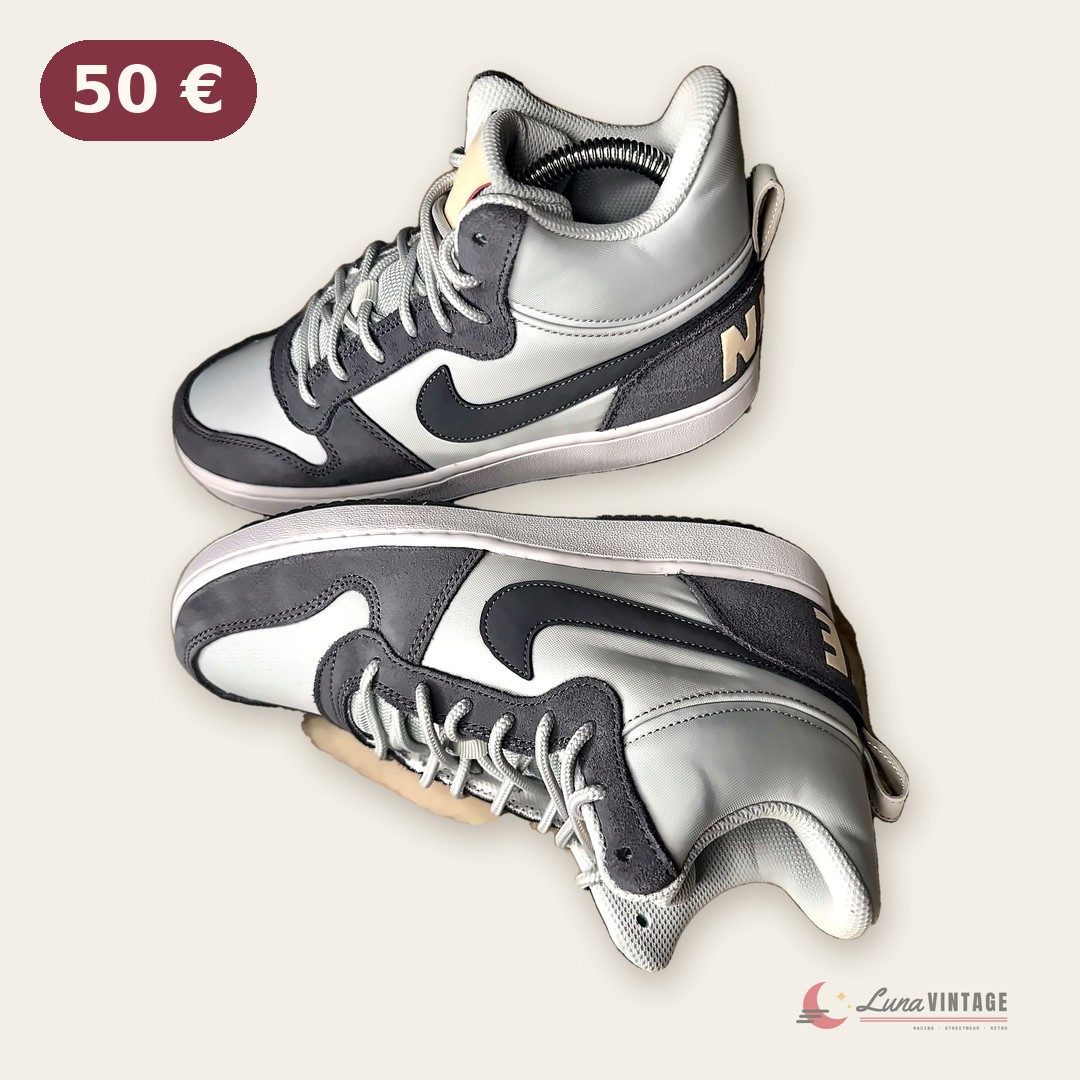
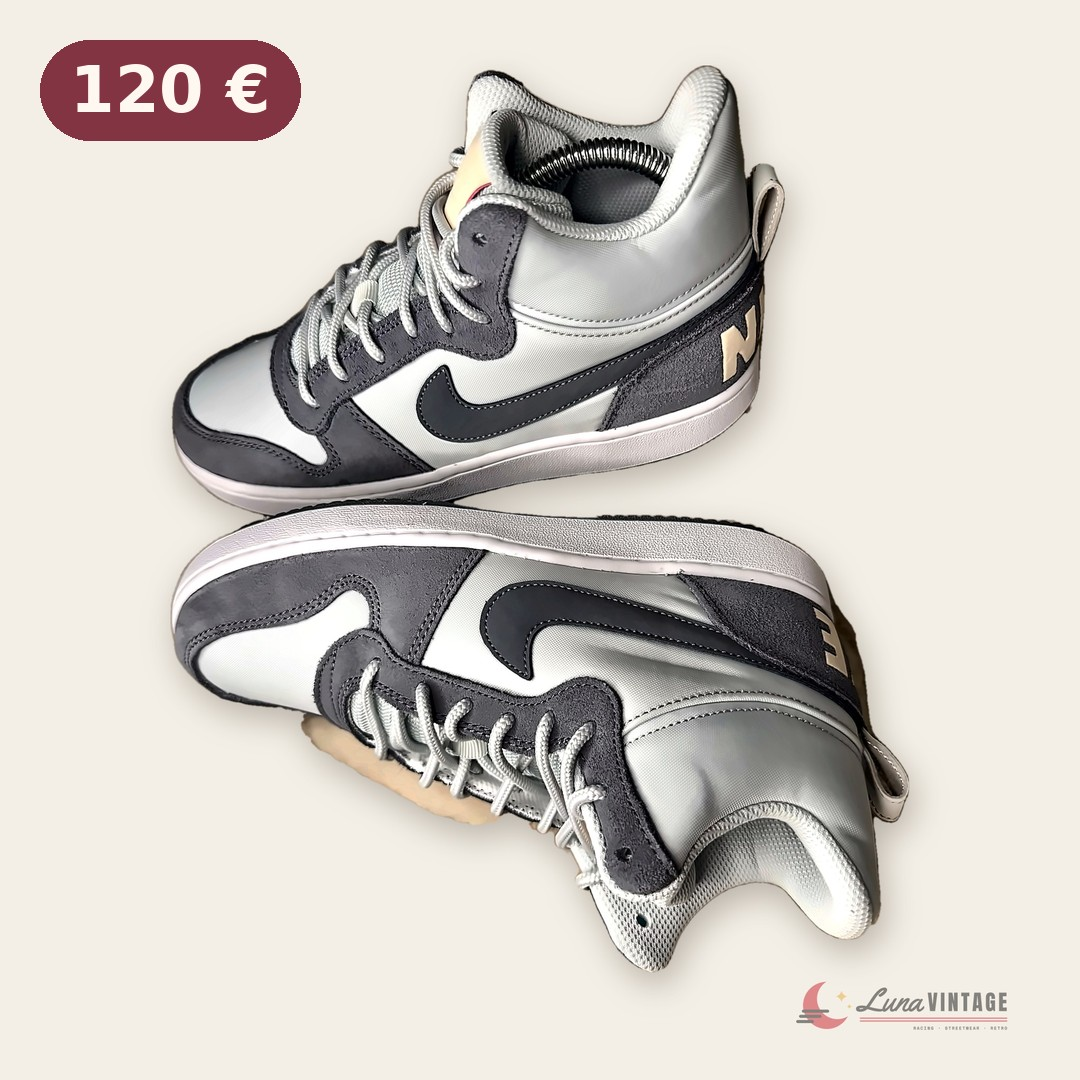
Precio Nike Court 120
Claude-Session: https://claude.ai/code/session_01U4Co1rGfzCPQ16g2SSdqwX

Changed region(s): [[0.0611, 0.0306, 0.275, 0.1528]]

diff --git a/brand/drop2/galeria.html b/brand/drop2/galeria.html
@@ -7,7 +7,7 @@ figcaption{padding:12px 14px;display:flex;justify-content:space-between;gap:10px
 <figure><img src="fb/01_23_camiseta_nike_united_90_fb.jpg" alt=""><figcaption><b>1.</b> Camiseta Nike United "90" manga larga animal print · Talla M<span>55 €</span></figcaption></figure>
 <figure><img src="fb/02_24_sudadera_essentials_gris_fb.jpg" alt=""><figcaption><b>2.</b> Sudadera con capucha Fear of God Essentials gris · Talla XS<span>65 €</span></figcaption></figure>
 <figure><img src="fb/03_25_camiseta_essentials_blanca_fb.jpg" alt=""><figcaption><b>3.</b> Camiseta Fear of God Essentials blanca · Talla XS<span>35 €</span></figcaption></figure>
-<figure><img src="fb/04_26_zapatillas_nike_court_mid_fb.jpg" alt=""><figcaption><b>4.</b> Zapatillas Nike Court Borough Mid gris y blanco<span>50 €</span></figcaption></figure>
+<figure><img src="fb/04_26_zapatillas_nike_court_mid_fb.jpg" alt=""><figcaption><b>4.</b> Zapatillas Nike Court Borough Mid gris y blanco<span>120 €</span></figcaption></figure>
 <figure><img src="fb/05_27_botas_calcetin_negras_fb.jpg" alt=""><figcaption><b>5.</b> Botas calcetín negras con hebilla y suela track<span>35 €</span></figcaption></figure>
 <figure><img src="fb/06_28_zapatillas_lancetti_negras_fb.jpg" alt=""><figcaption><b>6.</b> Zapatillas Lancetti blanco y negro plataforma<span>30 €</span></figcaption></figure>
 <figure><img src="fb/07_29_zapatillas_lancetti_azul_fb.jpg" alt=""><figcaption><b>7.</b> Zapatillas Lancetti blancas y azul plataforma · Talla 38<span>30 €</span></figcaption></figure>
